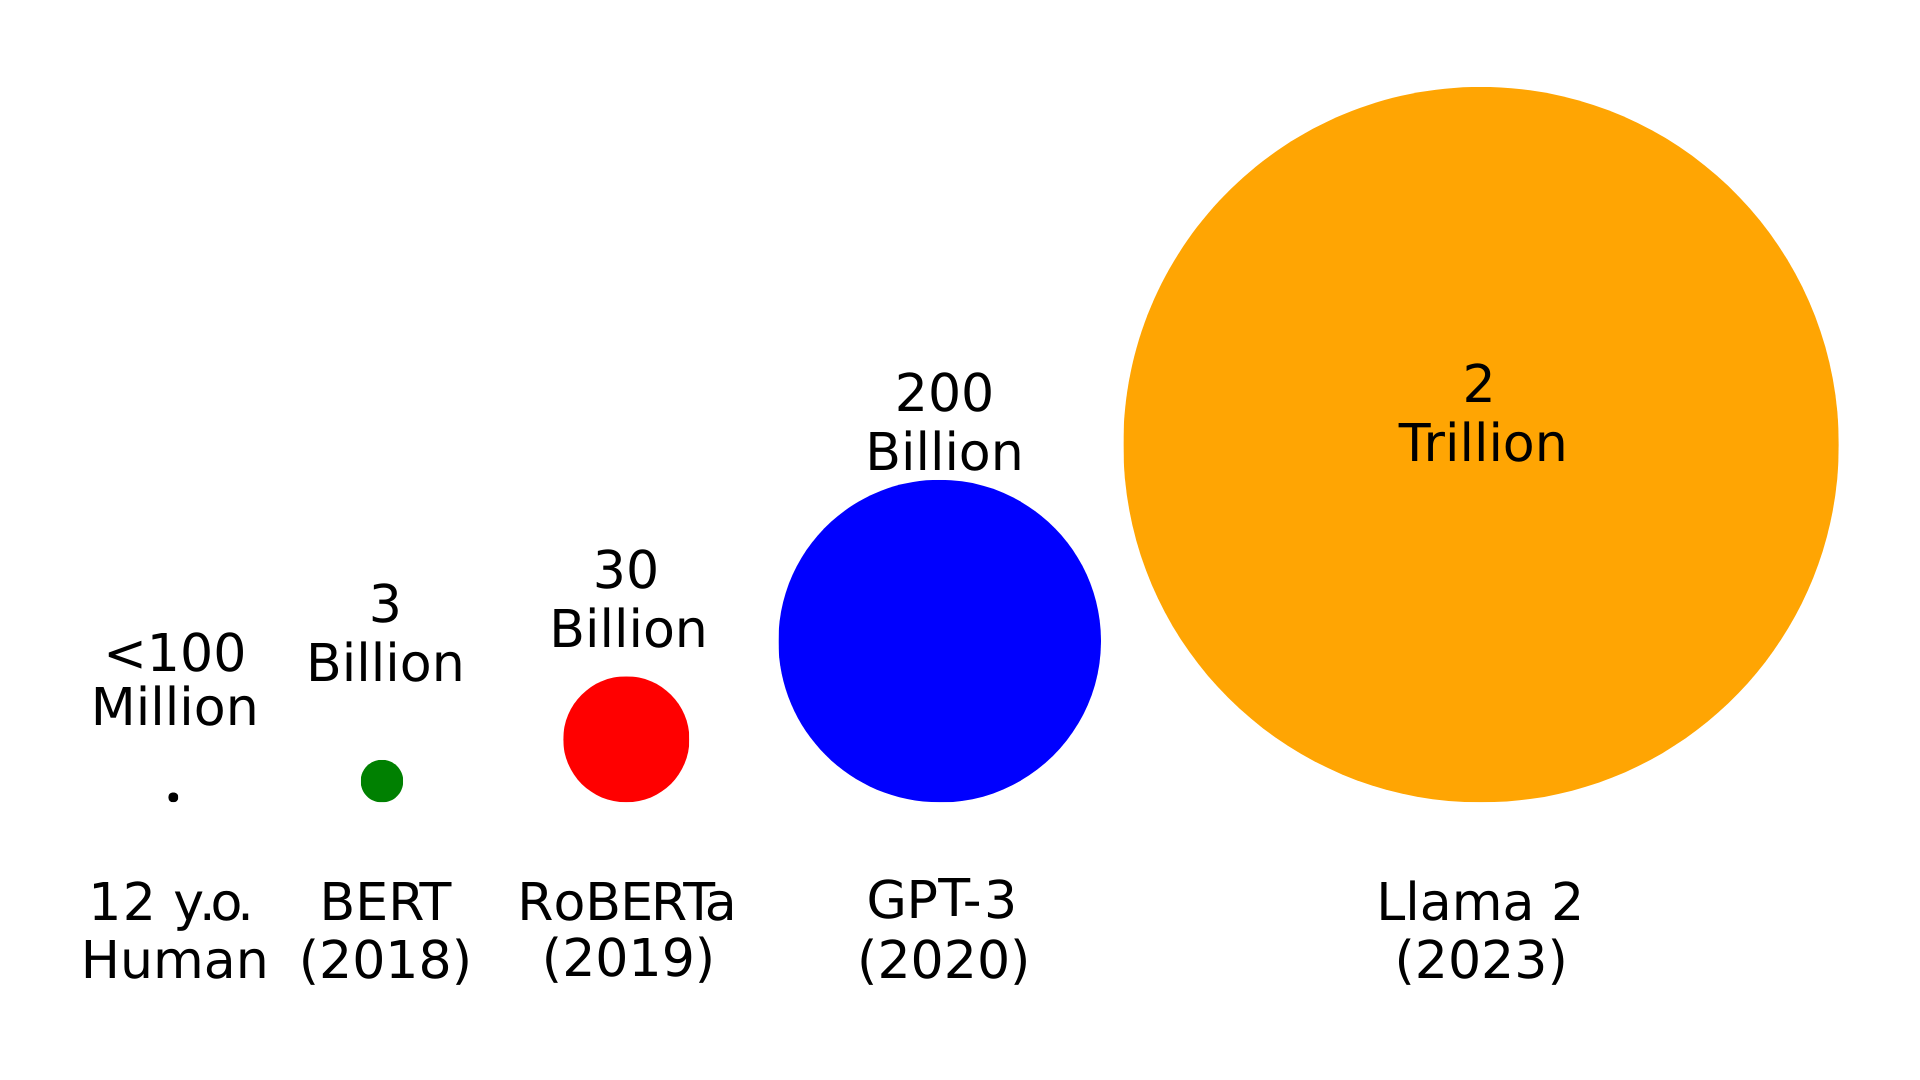
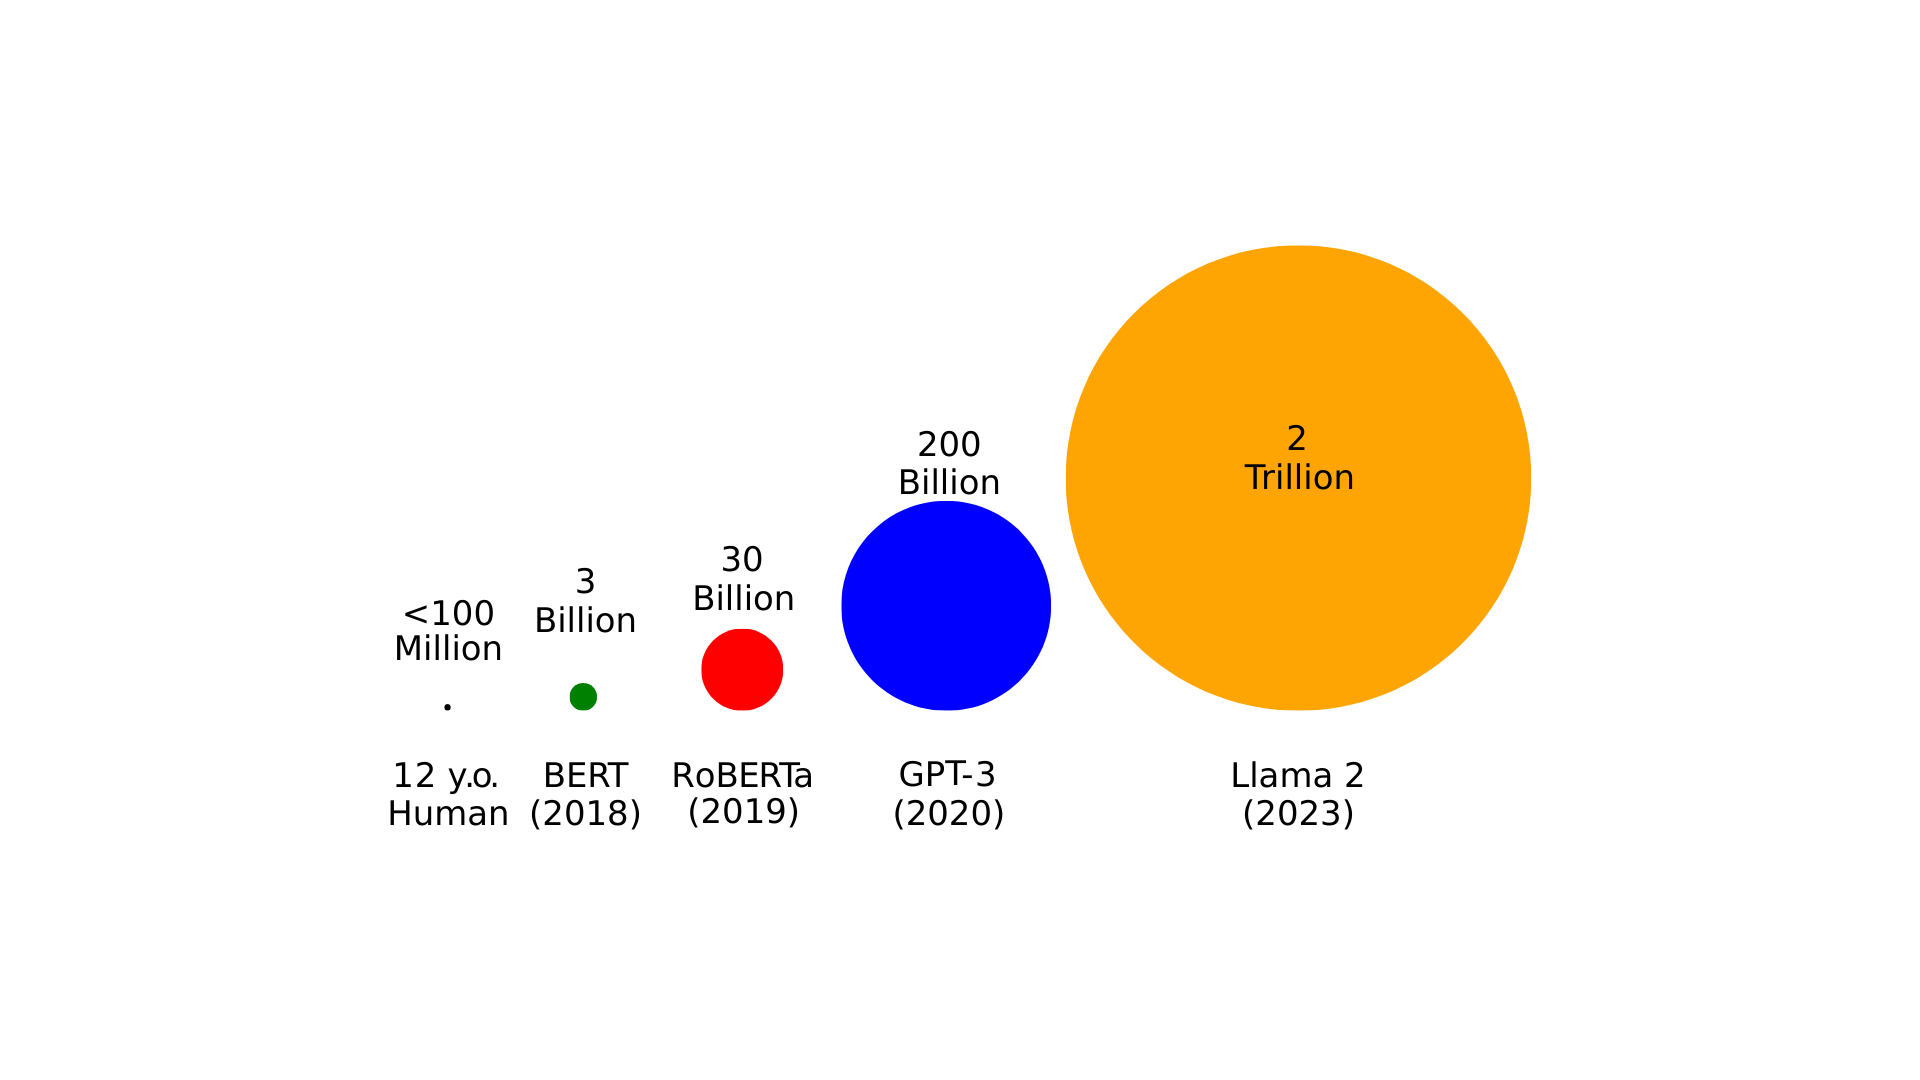
minor changes to intro

diff --git a/index.html b/index.html
@@ -103,24 +103,26 @@
         <section class="section" id="introduction">
           <p class="section-label">02 - Introduction</p>
           <h2>Introduction</h2>
+          <figure class="intro-figure">
+            <img
+              src="assets/model-training-sizes.png"
+              alt="Bubble chart comparing training data size across models and a 12-year-old human."
+            />
+            <figcaption>
+              Adapted from <a href="#references">Warstadt & Bowman (2022)</a>
+            </figcaption>
+          </figure>
           <p>
             Training a language models requires a large amount of data. Models
             like RoBERTa were trained on 30 billion words, and more recent
             models like Llama 2 on 2 trillion. A 12-year-old human, by
-            comparison, are exposed to fewer than 100 million in linguistic
-            input. Language models don't just see data once. They loop over the
-            same dataset tens or hundreds of times. This is entirely different
-            from how humans acquire language: we live through every day once,
-            and experience everything only once.
+            comparison, is exposed to fewer than 100 million in linguistic
+            input. And unlike humans, language models don't just see data once.
+            They loop over the same dataset tens or hundreds of times. This is
+            entirely different from how humans acquire language: we live through
+            every day once, and experience everything only once.
 
             <br />
-
-            <figure class="intro-figure">
-              <img
-                src="assets/model-training-sizes.png"
-                alt="Bubble chart comparing training data size across models and a 12-year-old human."
-              />
-            </figure>
           </p>
           <p>
             Part of this gap is structural. Standard training exposes the model

diff --git a/styles.css b/styles.css
@@ -230,4 +230,26 @@ body {
 .intro-figure img {
     width: 100%;
     display: block;
+    object-fit: cover;
+    object-position: center;
+    max-height: 300px;
+    margin-bottom: 15px;
+}
+
+.intro-figure figcaption {
+    margin-top: 10px;
+    margin-bottom: 20px;
+    font-size: 16px;
+    letter-spacing: 0.05em;
+    color: #3d4653;
+    text-align: center;
+}
+
+.intro-figure figcaption a {
+    color: #c9a84c;
+    text-decoration: none;
+}
+
+.intro-figure figcaption a:hover {
+    text-decoration: underline;
 }
